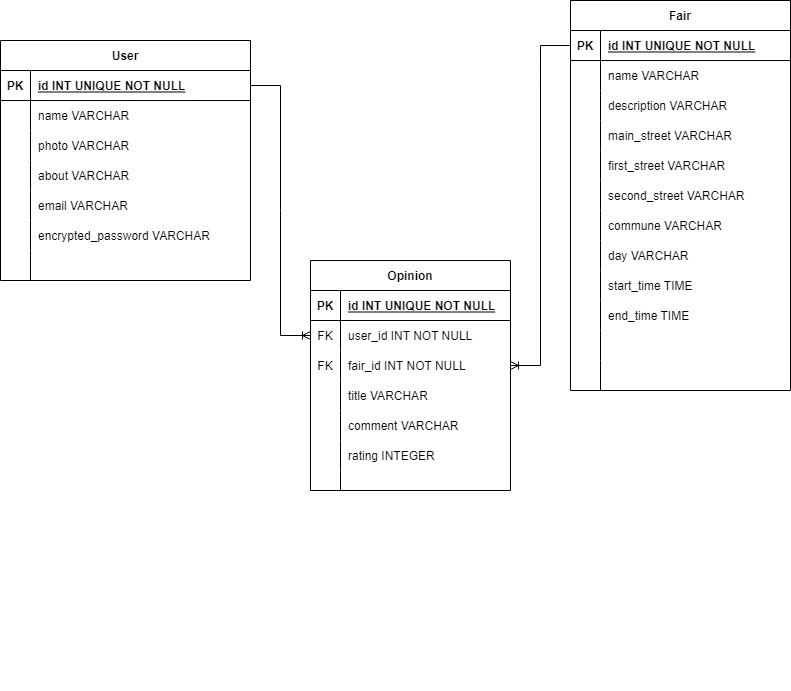
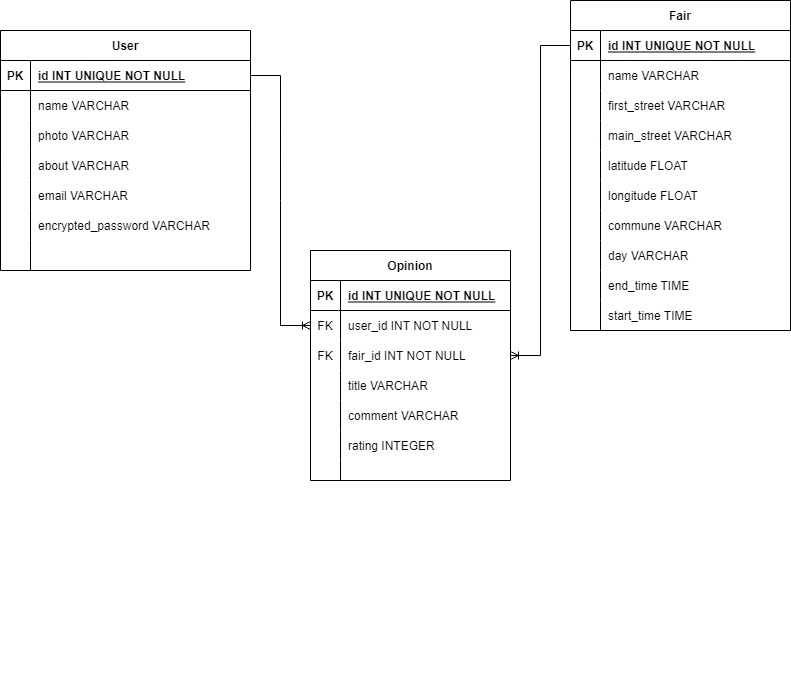
Style and CSV changed

diff --git a/app/assets/stylesheets/home.scss b/app/assets/stylesheets/home.scss
@@ -4,25 +4,43 @@
 @import 'bootstrap';
 
 body {
-font-family: 'Fira Sans',
+font-family: 'Poppins',
 sans-serif;
 }
 
+.fairtitle {
+    font-weight: 700;
+}
+
 #footer {
-    background-color: #e3f2fd;
+    background: linear-gradient(to bottom, rgba(26, 95, 78, 0) 0%, rgb(54, 95, 26) 100%);
     text-align: center;
     width: 100%;
     padding: 50px 0;
+    color: #fff;
 }
 
 .navbar {
-    background-color: #e3f2fd;
+    background: linear-gradient(to top, rgba(26, 95, 78, 0) 0%, rgb(54, 95, 26) 100%);
+    color: #fff;
 }
 
 .text-nav {
     text-align: left;
+    color: #fff;
 }
 
+.btn {
+    font-family: 'Poppins';
+    font-weight: 200;
+    letter-spacing: 0.5px;
+    transition: all 0.3s ease;
+    border-radius:100rem;
+    background-size: 400% 400%;
+    color: #FFF;
+    text-transform: uppercase;
+    border: 0;
+}
 .carousel-indicators li {
     border-radius: 50%;
     width: 10px;
@@ -40,9 +58,17 @@ sans-serif;
 }
 
 .card-header {
-    background-color: #93c47d;
+    position: relative;
+    height: 175px;
+    overflow: hidden;
+    background-repeat: no-repeat;
+    background-size: cover;
+    background-position: center;
+    background-color: rgba(white, .15);
+    background-blend-mode: overlay;
 }
 
 .card-body {
-    background-color: #fff5d9;
+    background: linear-gradient(45deg, rgb(61, 75, 124), #e9e7e3);
 }
+

diff --git a/db/seeds.rb b/db/seeds.rb
@@ -16,10 +16,10 @@ puts csv_text
 csv.each do |row|
     f = Fair.new
     f.name = row['NAME']
-    f.description = row['DESCRIPTION']
     f.main_street = row['MAIN_STREET']
     f.first_street = row['FIRST_STREET']
-    f.second_street = row['SECOND_STREET']
+    f.latitude = row['LATITUDE']
+    f.longitude = row['LONGITUDE']
     f.commune = row['COMMUNE']
     f.day = row['DAY']
     f.start_time = row['START_TIME']
